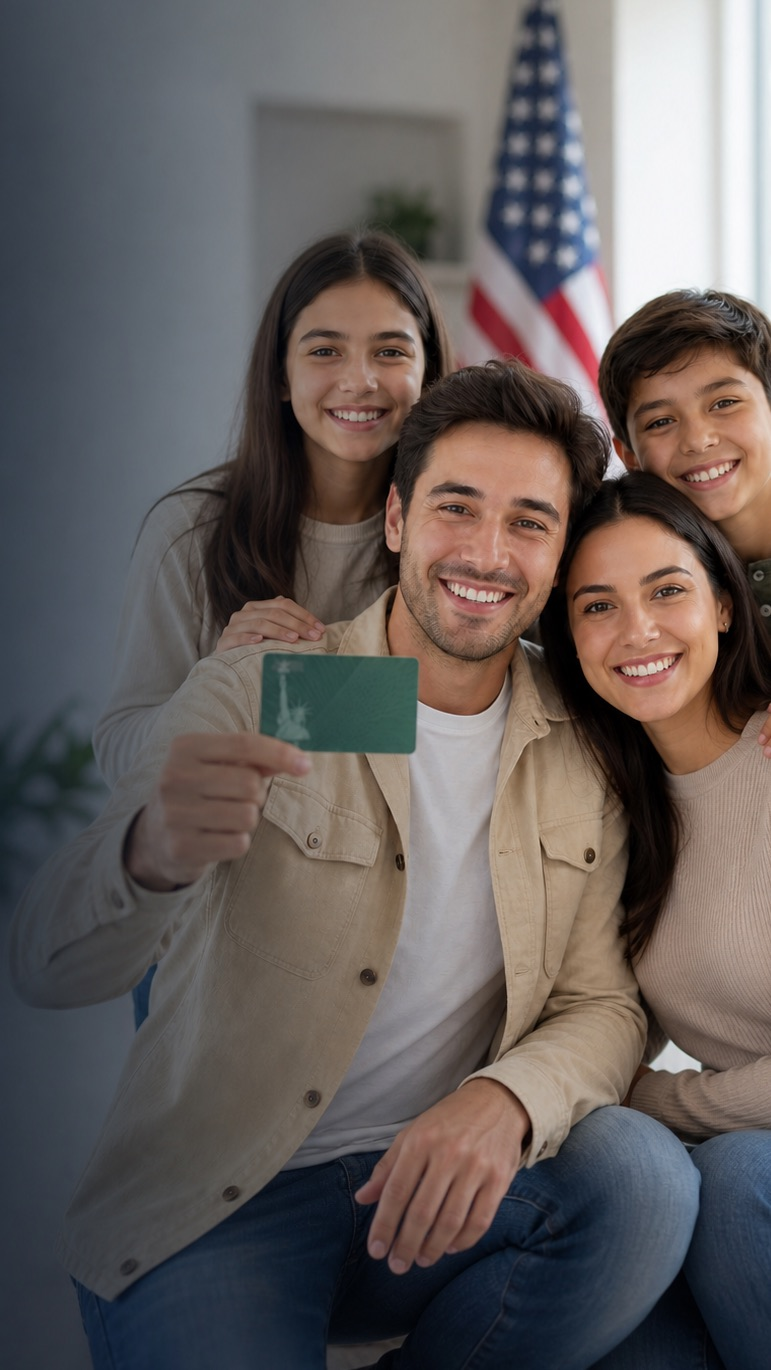
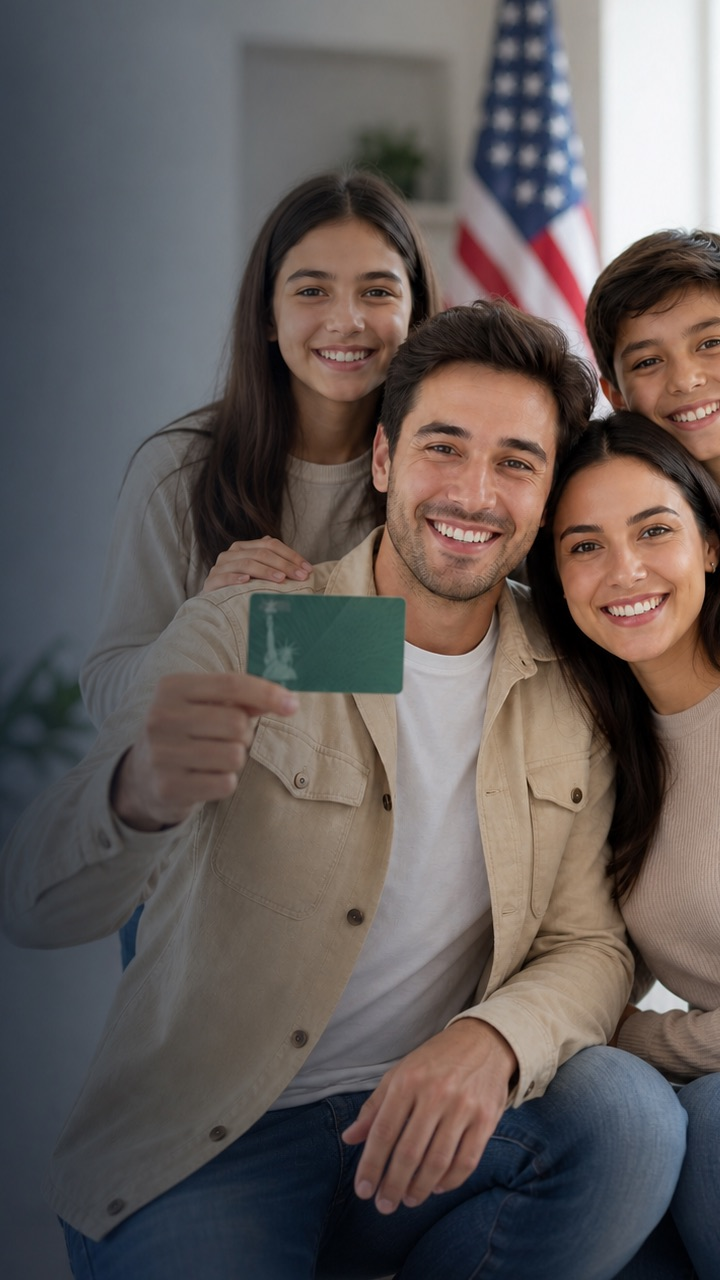
Improve hero image alignment

diff --git a/assets/styles.css b/assets/styles.css
@@ -1784,16 +1784,17 @@ small {
 
 .hero-photo-slide {
   position: absolute;
-  inset: 0;
+  inset: 0 -30% 0 0;
   background-position: 58% center;
   background-size: cover;
   opacity: 0;
-  transform: scale(1.025);
+  transform: translateX(-24%) scale(1.03);
   animation: heroPhotoFade 12s infinite;
 }
 
 .hero-photo-slide.is-second {
   background-position: 50% center;
+  transform: translateX(-30%) scale(1.03);
   animation-delay: 6s;
 }
 
@@ -2326,7 +2327,9 @@ small {
   }
 
   .hero-photo-slide {
+    inset: 0;
     background-size: cover;
+    transform: scale(1.02);
   }
 
   .hero-photo-slide.is-first {
@@ -2369,15 +2372,17 @@ small {
   }
 
   .hero-photo-slide.is-first {
-    background-image: url("images/hero/green-card-family-mobile.jpg?v=20260612-raised") !important;
+    background-image: url("images/hero/green-card-family-mobile.jpg?v=20260612-higher") !important;
     background-position: 52% 45%;
     background-size: cover;
+    transform: scale(1.02);
   }
 
   .hero-photo-slide.is-second {
-    background-image: url("images/hero/green-card-couple-mobile.jpg?v=20260612-raised") !important;
+    background-image: url("images/hero/green-card-couple-mobile.jpg?v=20260612-higher") !important;
     background-position: 54% center;
     background-size: cover;
+    transform: scale(1.02);
   }
 
   .hero-dashboard .hero-content {

diff --git a/requirements.html b/requirements.html
@@ -11,7 +11,7 @@
     <link rel="icon" href="assets/favicon.svg" type="image/svg+xml" />
     <link
       rel="stylesheet"
-      href="assets/styles.css?v=20260612-hero-align-raised"
+      href="assets/styles.css?v=20260612-hero-align-higher"
     />
   </head>
   <body class="requirements-page">
@@ -406,7 +406,7 @@
         information: dvprogram.state.gov.
       </p>
     </footer>
-    <script src="assets/app.js?v=20260612-hero-align-raised"></script>
+    <script src="assets/app.js?v=20260612-hero-align-higher"></script>
     <script src="assets/requirements.js"></script>
   </body>
 </html>

diff --git a/faq.html b/faq.html
@@ -11,7 +11,7 @@
     <link rel="icon" href="assets/favicon.svg" type="image/svg+xml" />
     <link
       rel="stylesheet"
-      href="assets/styles.css?v=20260612-hero-align-raised"
+      href="assets/styles.css?v=20260612-hero-align-higher"
     />
   </head>
   <body>
@@ -195,6 +195,6 @@
         information: dvprogram.state.gov.
       </p>
     </footer>
-    <script src="assets/app.js?v=20260612-hero-align-raised"></script>
+    <script src="assets/app.js?v=20260612-hero-align-higher"></script>
   </body>
 </html>

diff --git a/guide.html b/guide.html
@@ -11,7 +11,7 @@
     <link rel="icon" href="assets/favicon.svg" type="image/svg+xml" />
     <link
       rel="stylesheet"
-      href="assets/styles.css?v=20260612-hero-align-raised"
+      href="assets/styles.css?v=20260612-hero-align-higher"
     />
   </head>
   <body>
@@ -220,6 +220,6 @@
         information: dvprogram.state.gov.
       </p>
     </footer>
-    <script src="assets/app.js?v=20260612-hero-align-raised"></script>
+    <script src="assets/app.js?v=20260612-hero-align-higher"></script>
   </body>
 </html>

diff --git a/how-it-works.html b/how-it-works.html
@@ -11,7 +11,7 @@
     <link rel="icon" href="assets/favicon.svg" type="image/svg+xml" />
     <link
       rel="stylesheet"
-      href="assets/styles.css?v=20260612-hero-align-raised"
+      href="assets/styles.css?v=20260612-hero-align-higher"
     />
   </head>
   <body>
@@ -160,6 +160,6 @@
         information: dvprogram.state.gov.
       </p>
     </footer>
-    <script src="assets/app.js?v=20260612-hero-align-raised"></script>
+    <script src="assets/app.js?v=20260612-hero-align-higher"></script>
   </body>
 </html>

diff --git a/index.html b/index.html
@@ -16,7 +16,7 @@
     />
     <link
       rel="stylesheet"
-      href="assets/styles.css?v=20260612-hero-align-raised"
+      href="assets/styles.css?v=20260612-hero-align-higher"
     />
   </head>
   <body>
@@ -795,6 +795,6 @@
       </p>
     </footer>
 
-    <script src="assets/app.js?v=20260612-hero-align-raised"></script>
+    <script src="assets/app.js?v=20260612-hero-align-higher"></script>
   </body>
 </html>
